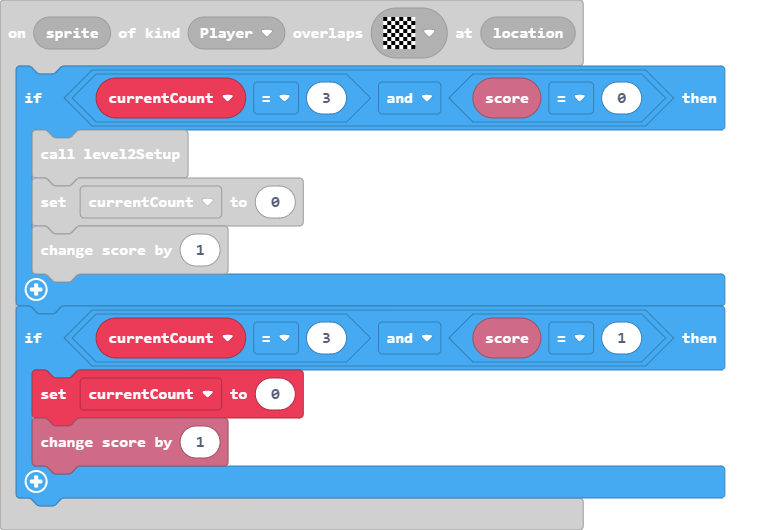
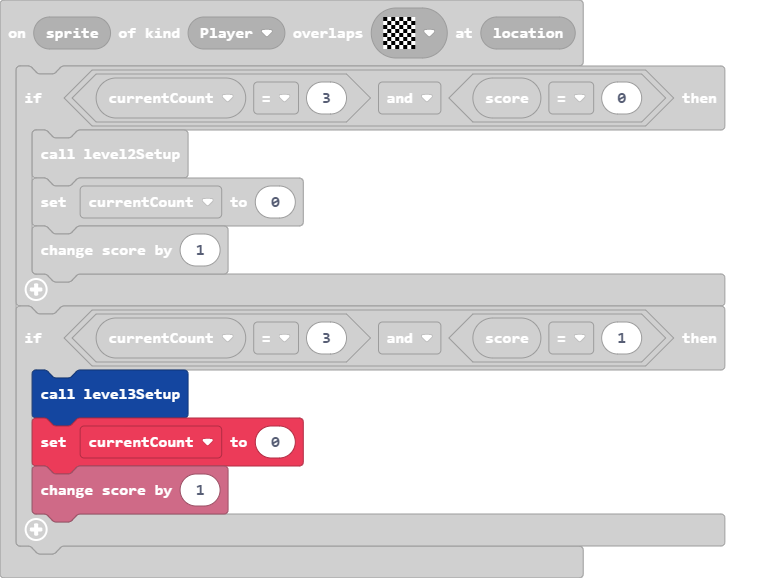
Update main.blocks, main.ts

diff --git a/main.ts b/main.ts
@@ -19,6 +19,7 @@ scene.onOverlapTile(SpriteKind.Player, assets.tile`end-tile`, function (sprite, 
         info.changeScoreBy(1)
     }
     if (currentCount == 3 && info.score() == 1) {
+        level3Setup()
         currentCount = 0
         info.changeScoreBy(1)
     }
